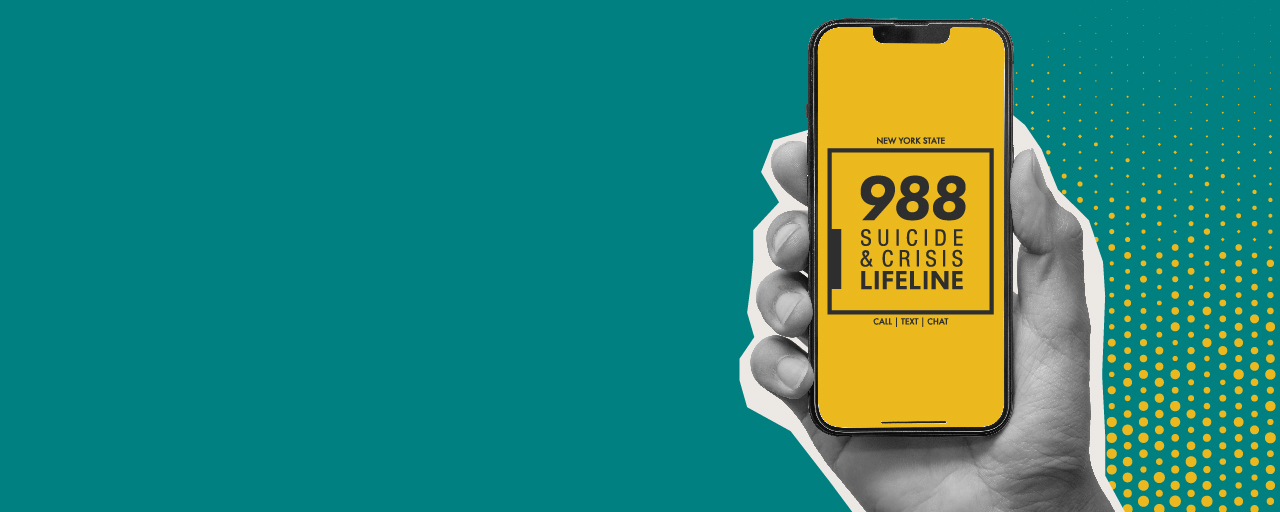
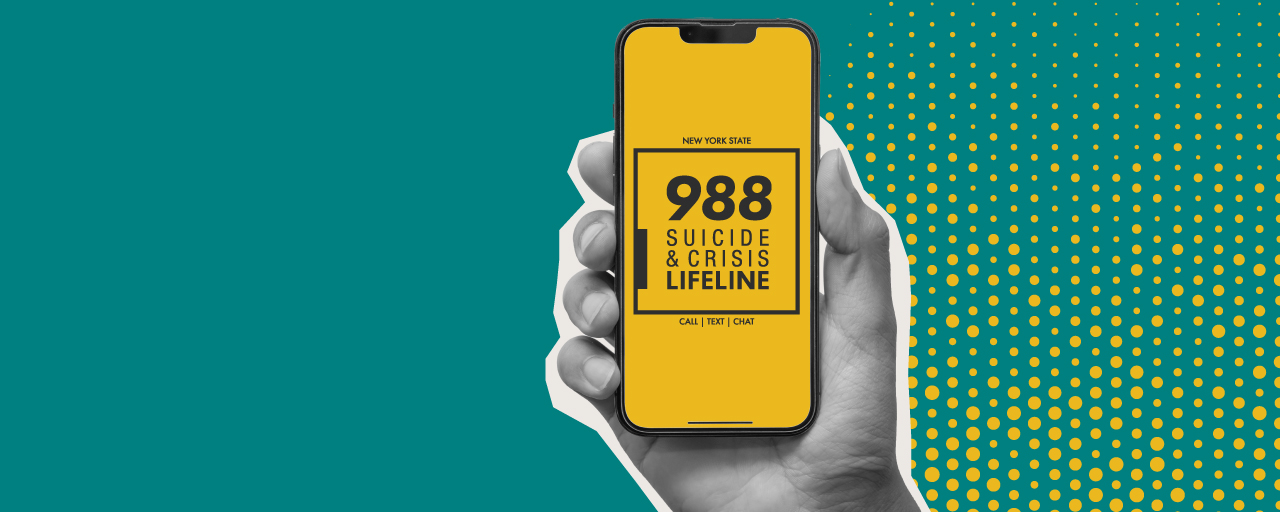
update heroes and sync final edits

diff --git a/_site/omhweb/crisis/988-resources.html b/_site/omhweb/crisis/988-resources.html
@@ -143,7 +143,7 @@
 
         <style>
             .nysds-hero-background-image {
-                background-image: url("/omhweb/bootstrap/img/resources-hero.png");
+                background-image: url("/omhweb/bootstrap/img/988-resources-hero.jpg");
             }
         </style>
     <section class="nysds-hero-container  nysds-hero-background-image ">
@@ -166,8 +166,6 @@
     </section>
 
 <section class="nysds-page">
-<h2> Promotional Materials</h2>
-<p> Additional marketing materials such as posters, brochures, and palm cards are <a href="mailto:Crisis.Initiative@omh.ny.gov">available by request. </a></p>
 
 <section class="nysds-documents">
     
@@ -267,7 +265,7 @@
 </ul>
 
 <h2>Language Access</h2>
-<p>To obtain a PDF of any resources in a language not available above, please submit a <a href="https://forms.office.com/Pages/ResponsePage.aspx?id=6rhs9AB5EE2M64Dowcge5_k-B0P_gmZPqRjx4JM_B2BUQVREOUkyRDQwVUVCQ1VEODNWTDFJVkhVUyQlQCN0PWcu">988 Resource Translation Request</a>.</p>
+<p>For 988 resources in another language, please submit a<a href="https://forms.office.com/Pages/ResponsePage.aspx?id=6rhs9AB5EE2M64Dowcge5_k-B0P_gmZPqRjx4JM_B2BUQVREOUkyRDQwVUVCQ1VEODNWTDFJVkhVUyQlQCN0PWcu">988 Resource Translation Request</a>.</p>
 
 
 <h2>Contact Us</h2>

diff --git a/_site/omhweb/crisis/988.html b/_site/omhweb/crisis/988.html
@@ -151,7 +151,7 @@
             
             
             <h2 class="nysds-hero-title">988: We Hear You</h2>
-            <p class="nysds-hero-description">If you or someone you know needs emotional support – we hear you. Call or text 988 or chat online for the direct connection you need now.  </p>
+            <p class="nysds-hero-description">If you or someone you know needs emotional support - we hear you. Call or text 988 or chat online for the direct connection you need now.  </p>
             
             <ul class="nysds-hero-links-list">
                 
@@ -256,7 +256,7 @@
                          stats-the-blue  
                          
                         ">
-                    420,123
+                     478,388
                 </h3>
                 
                 <p class="stats-description">
@@ -280,7 +280,7 @@
                          stats-the-blue  
                          
                         ">
-                    58,660
+                    75,661
                 </h3>
                 
                 <p class="stats-description">
